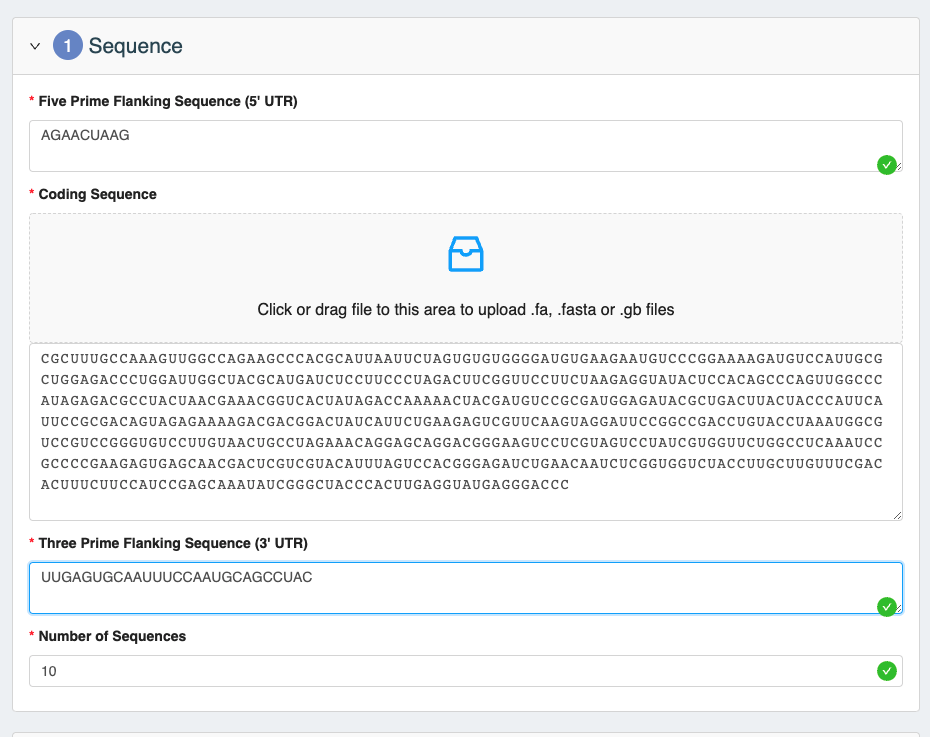
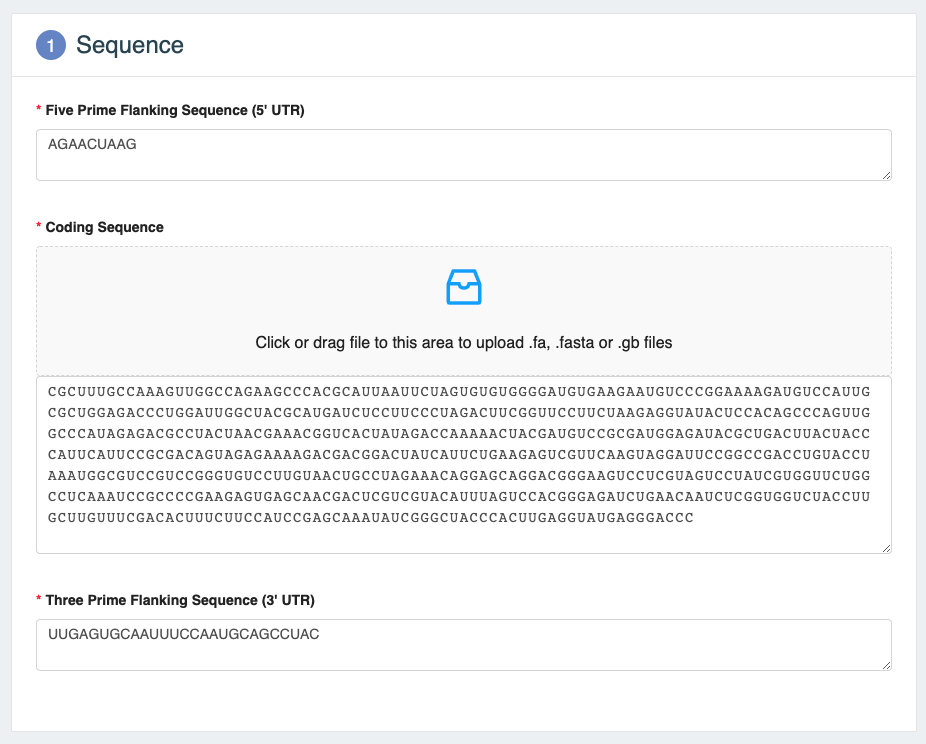
manual modified

diff --git a/usage_manual/Manual.md b/usage_manual/Manual.md
@@ -1,6 +1,6 @@
 # User guide for mRNAid web app
 
-This manual will guide you through the usage of the application section by section
+This manual will guide you through the usage of the application step by step
 
 ## "Input parameters" page
 
@@ -9,64 +9,79 @@ parameters.
 
 #### "Sequence" section
 
+In this section user has to provide coding sequence, 5' UTR and 3' UTR sequences.
+
 * Please input the sequence to be optimized: 5’ UTR, coding sequence (CDS), and 3’ UTR sequences in RNA or DNA format. 
 You may cut and paste your sequence directly or drag and drop FASTA or GenBank files.  Green tick symbols indicate that 
 your sequences are in the correct format.  There are validations performed on these input forms: only A,C,G,T,U symbols
 are allowed and the coding sequence's length should be a multiple of three.
-* Specify the number of optimized sequences you would like to retrieve as the result of the optimization (10 by default).
 
 ![Sequence](./images/Sequence.png)
 
-#### "Codon usage" section
+#### "Optimization parameters" section
+
+In this section user has to specify parameters of the optimization job.
 
 * Please choose the codon usage table that will be used for the optimization. It can be either *Homo Sapiens* or 
 *Mus Musculus*.
+![Organism](./images/Organism.png)
+
 * You may filter for rare codons by choosing a percentage threshold (Default 10%, meaning that codon with frequency less
  than 10% will be ignored).
+ ![Threshold](./images/Threshold.png)
 * You may choose to deplete Uridine at the third position of every codon to improve expression and reduce immunogenicity.
+ ![Uridine](./images/Uridine.png)
 * Please choose the desired codon optimization method. If none is selected, then the tool optimizes codon frequency to match
 the one in the target host. You can also chose between "Match dinucleotides usage", "Match codon pair usage" or 
 "CAI (Codon Adaptation Index) optimization". Please note the tooltip widget (hover over the question mark) that briefly
  explains on each method. Click the links within the text to get more familiar with each method.
+ ![Optimization methods](./images/Optimization_methods.png)
 * You may also choose the Minimum Free Energy (MFE) optimization method (default: stem-loop prediction – the faster option),
  for more precise MFE calculation on the expense of analysis time choose the ViennaRNA MFE calculation   
- 
-
-![alt](./images/Codon%20Usage.png) | ![alt](./images/Codon%20Usage%202.png)
-
-#### "Avoid motifs" section
+ ![MFE](./images/MFE.png)
 * User can choose motif (e.g. enzyme site) to avoid in the output optimized sequence. Simply choose the enzyme (e.g. EcoRI)
  from the drop down list or specify other custom motif.
- 
-![alt](./images/Avoid%20Motifs.png)
- 
-#### "Parameters" section
-
-* You can set the range of the desired global GC content optimization (Default: 30-70%) 
+![Motifs](./images/Motifs.png)
+ * You can set the range of the desired global GC content optimization (Default: 30-70%) 
 * You must also set the sliding window for the local GC content optimization to make it uniformly distributed across the 
 sequence  (Default: 100) 
+![GC](./images/GC.png)
 * You must set the entropy window to be optimized for MFE (Default: 30).
-* You may choose to name your output file e.g. Demo 
+![Entropy](./images/Entropy.png)
+* You have to select number of the optimized sequences in the output (Default: 10)
+![Number of sequences](./images/Number_of_sequences.png)
 
-As before use the tooltip widget to learn more about the parameters (hover over the question mark) 
+Where available you can use the tooltip widget to learn more about the parameters (hover over the question mark) 
 
-![alt](./images/Parameters.png)
+On the bottom of the page you can see three buttons:
+![Buttons](./images/Buttons.png)
+* Reset: Use it to drop the parameters
+* Example: Use it to fill the forms with the example sequences and parameters
+* Submit: Submit the optimization job
 
 
 ## "Results" page
 
-mRNAid displays the input sequence in RNA and DNA and its corresponding secondary structure and MFE distribution along 
+mRNAid displays the input sequence in RNA and DNA formats, its corresponding secondary structure and MFE distribution along 
 the sequence that can be downloaded directly. It also displays the values for the sequence including MFE, CAI, GC content
- etc. Optimized sequences are shown below. If two or more optimization runs result in the same sequence, this are shown 
+ etc. 
+ 
+To navigate to optimized sequences user should use the panel on the left side of the page:
+
+![Results_panel](./images/Results_panel.png)
+
+Optimized sequences are shown below. If two or more optimization runs result in the same sequence, this are shown 
  only once. A report with all optimized sequences can be downloaded in a PDF format and sequences along with their 
  respective parameters can be downloaded in Excel format too.  User can also zoom into the secondary stucture visualization
  and download an image of the selected region.
  
-![alt](./images/Results.png)
+![Results](./images/Results.png)
 
 After the optimization is ready user can also navigate back to the input page selecting "Input parameters" section
 in the navigation bar on top. If no new optimization has being started, user can also return to the results page selecting
 "Results" option in the navigation bar.
+![Navbar](./images/Navbar.png)
+
 
 
 
